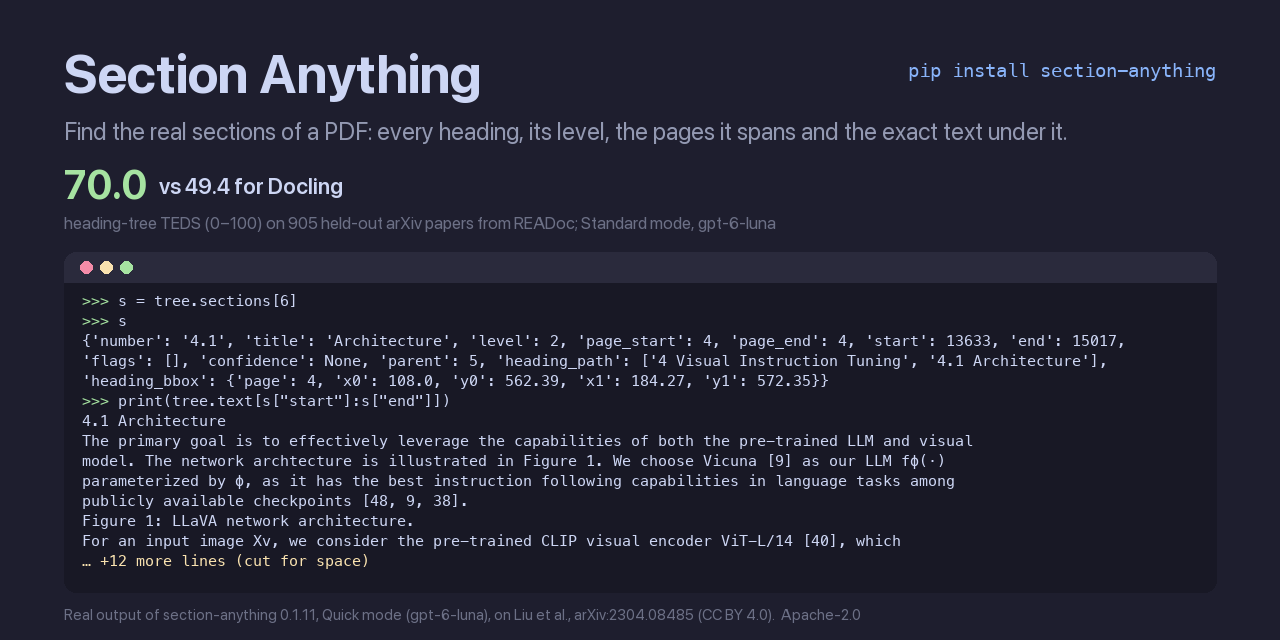
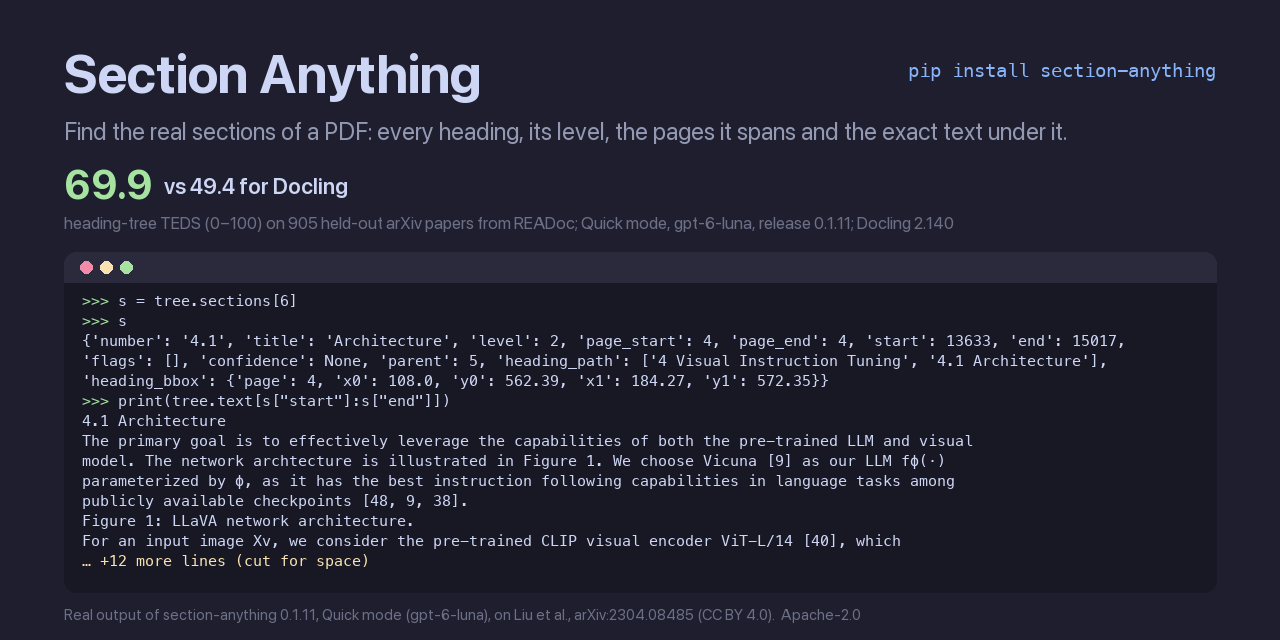
Results measured again on 0.1.11 (13 Nov 2026): README, package README, website data, demo note, agent skill, social preview

Changed region(s): [[0.0312, 0.25, 0.2812, 0.3125], [0.4375, 0.3438, 0.75, 0.375]]

diff --git a/site/data/results.js b/site/data/results.js
@@ -2,7 +2,7 @@
 // Every number below was measured with the scripts in hustles/.tmp/readoc-pilot (to be moved into the
 // public repo as benchmarks/) unless marked "published".
 window.SA_DATA = {
-  updated: "2026-10-28",
+  updated: "2026-11-13",
   repoUrl: "https://github.com/Omniwot/section-anything",
   appUrl: "https://huggingface.co/spaces/Omniwot/section-anything",  // the demo app's address; empty hides the "Try it" buttons
   tryIt: {
@@ -25,7 +25,7 @@ window.SA_DATA = {
       costPer1000Pages: 0.07 },
     { id: "standard", name: "Standard", model: "an LLM (gpt-6-luna by default, as in every READoc table here; gpt-6.1-sol optional)", sends: "the document text",
       how: "The model reads every line, with font hints, and marks where each section starts and ends.",
-      costPer1000Pages: 0.16, costPer1000PagesStrong: 2.9 },
+      costPer1000Pages: 0.12, costPer1000PagesStrong: 2.9 },
     { id: "local", name: "Local", model: "a local model through Ollama", sends: "nothing leaves your machine",
       how: "Quick check run on your own hardware. Slower; quality depends on the model.",
       costPer1000Pages: 0 }
@@ -37,27 +37,27 @@ window.SA_DATA = {
     link: "https://github.com/icip-cas/READoc",
     heldout: {
       title: "arXiv papers not used while developing the method",
-      date: "2026-10-28", docs: 905, subset: "READoc-arXiv",
+      date: "2026-11-13", docs: 905, subset: "READoc-arXiv",
       rows: [
-        { system: "Section Anything Standard (gpt-6-luna)", score: 70.0, ours: true },
-        { system: "Section Anything Quick check (gpt-6-luna)", score: 68.0, ours: true },
-        { system: "Section Anything Free (no model)", score: 60.0, ours: true },
-        { system: "Docling 2.140 (heading hierarchy on)", score: 49.4 }
+        { system: "Section Anything Quick check (gpt-6-luna)", score: 69.9, ours: true },
+        { system: "Section Anything Standard (gpt-6-luna)", score: 68.0, ours: true },
+        { system: "Section Anything Free (no model)", score: 61.7, ours: true },
+        { system: "Docling 2.140 (heading hierarchy on; measured October 2026)", score: 49.4 }
       ],
-      note: "Paired per paper, Standard minus Docling is +20.6 points on these 905 papers (95% CI 19.3 to 21.8); Standard scored higher on 773 papers and Docling on 103 (by more than 0.5 points). Quick check is release 0.1.2 and Free release 0.1.5. Release 0.1.1 found the abstract's heading (journals often set it small, bold or run into the first line): in a pre-registered held-out test it added 2.4 points to Free (95% CI 2.0 to 2.7) and 3.7 to Quick check (95% CI 3.3 to 4.1) on these papers (0.1.0: 54.8 and 63.9). Release 0.1.2 keeps a section number that the PDF extractor split off its title (\"1\" | \"Introduction\"): in a second pre-registered test it added 0.7 to Free (95% CI 0.5 to 1.0) and 0.5 to Quick check (95% CI 0.4 to 0.8; 1.7 on the 291 papers it changes) (0.1.1: 57.2 and 67.4). Release 0.1.5 gives back matter (References, Acknowledgements, Appendix) and appendix sections the level of the numbered sections: in a fourth pre-registered test on these papers it added 2.1 points to Free (95% CI 1.7 to 2.4; 136 papers better, 4 worse) (0.1.4: 57.9), with READMEs unchanged. Standard uses none of these. Free includes the outline check (52.0 before it)."
+      note: "Our rows are release 0.1.11, run end to end from the PDFs on 13 November 2026 (one run); Docling's row was measured in October. Paired per paper, Quick check minus Docling is +20.5 points on these 905 papers (95% CI 19.3 to 21.7); Quick check scored higher on 774 papers and Docling on 79 (by more than 0.5 points). Quick check is 1.9 points ahead of Standard (95% CI 1.2 to 2.6), and Standard is 1.9 lower than its October run (95% CI 1.3 to 2.5); which release caused that is not isolated. Before 0.1.11 this table read Standard 70.0 (October), Quick check 68.0 (release 0.1.2) and Free 60.0 (release 0.1.5). Release 0.1.1 found the abstract's heading (journals often set it small, bold or run into the first line): in a pre-registered held-out test it added 2.4 points to Free (95% CI 2.0 to 2.7) and 3.7 to Quick check (95% CI 3.3 to 4.1) on these papers (0.1.0: 54.8 and 63.9). Release 0.1.2 keeps a section number that the PDF extractor split off its title (\"1\" | \"Introduction\"): in a second pre-registered test it added 0.7 to Free (95% CI 0.5 to 1.0) and 0.5 to Quick check (95% CI 0.4 to 0.8; 1.7 on the 291 papers it changes) (0.1.1: 57.2 and 67.4). Release 0.1.5 gives back matter (References, Acknowledgements, Appendix) and appendix sections the level of the numbered sections: in a fourth pre-registered test on these papers it added 2.1 points to Free (95% CI 1.7 to 2.4; 136 papers better, 4 worse) (0.1.4: 57.9), with READMEs unchanged. Standard uses none of these. Free includes the outline check (52.0 before it)."
     },
     heldoutMinerU: {
       title: "The same held-out papers with MinerU (every tool on the same papers)",
-      date: "2026-10-26", docs: 905, subset: "READoc-arXiv",
+      date: "2026-11-13", docs: 905, subset: "READoc-arXiv",
       rows: [
-        { system: "Section Anything Standard (gpt-6-luna)", score: 70.0, ours: true },
-        { system: "Section Anything Quick check (gpt-6-luna)", score: 68.0, ours: true },
+        { system: "Section Anything Quick check (gpt-6-luna)", score: 69.9, ours: true },
+        { system: "Section Anything Standard (gpt-6-luna)", score: 68.0, ours: true },
         { system: "MinerU cloud + its LLM title levels (gpt-6.1-sol)", score: 64.8 },
         { system: "MinerU cloud + its LLM title levels (gpt-6-luna)", score: 62.7 },
         { system: "MinerU cloud (3.4.4, vlm)", score: 53.9 },
         { system: "Docling 2.140 (heading hierarchy on)", score: 49.4 }
       ],
-      note: "Paired per paper, Standard minus MinerU + LLM (gpt-6.1-sol) is +5.1 points (95% CI 4.0 to 6.2). MinerU's cloud processed all 905 held-out papers. We ran its LLM title-level step through our own relay; with gpt-6.1-sol it returned no parsable levels for 154 of them after three tries and kept MinerU's raw levels (failures in the first 313 papers were not logged; with gpt-6-luna none of the 592 logged papers failed); without those 154 papers the difference is +2.8 points (95% CI 1.6 to 3.9). Quick check (release 0.1.2; 67.4 in 0.1.1, 63.9 in 0.1.0), which sends only candidate lines, is 3.1 points above MinerU + LLM (gpt-6.1-sol) (95% CI 2.1 to 4.1), but level with it without the 154 papers (+1.0, 95% CI −0.03 to 2.0)."
+      note: "Our rows are release 0.1.11 (13 November 2026); the MinerU and Docling rows were measured in October. Paired per paper, Quick check minus MinerU + LLM (gpt-6.1-sol) is +5.1 points (95% CI 4.1 to 6.1) and Standard minus MinerU + LLM is +3.2 (95% CI 2.2 to 4.2). MinerU's cloud processed all 905 held-out papers. We ran its LLM title-level step through our own relay; with gpt-6.1-sol it returned no parsable levels for 154 of them after three tries and kept MinerU's raw levels (failures in the first 313 papers were not logged; with gpt-6-luna none of the 592 logged papers failed); without those 154 papers Quick check, which sends only candidate lines, is 3.0 points above MinerU + LLM (95% CI 1.9 to 4.0) and Standard is about level with it (+1.0, 95% CI 0.0 to 1.9)."
     },
     sample: {
       title: "Every tool on the same READoc sample (200 documents drawn; 198 have headings in the answer key)",
@@ -83,7 +83,7 @@ window.SA_DATA = {
         { system: "Section Anything Free (no model)", arxiv: 59.4, github: 81.3, ours: true },
         { system: "Docling 2.140 (heading hierarchy on)", arxiv: 49.3, github: 75.0 }
       ],
-      note: "All documents with headings in READoc's arXiv and GitHub sets. Free is release 0.1.5 (0.1.4: 57.3 / 81.3; 0.1.1: 56.6 / 81.3; 0.1.0: 54.2 / 81.3; 51.3 / 75.0 before the outline check). Quick check is 0.1.0 (its 0.1.1 and 0.1.2 gains were measured on the 905 held-out papers above). On the 1,124 GitHub READMEs not used during development, Standard and Quick check tie with Docling (Standard +0.3, 95% CI -0.9 to +1.6) and Free scores 6.2 higher (95% CI 5.3 to 7.2). Over all 1,224 READMEs, Standard's heading text is a little closer to the answer key than Docling's (READoc heading edit similarity 77.8 vs 73.9)."
+      note: "All documents with headings in READoc's arXiv and GitHub sets. Free is release 0.1.5 (0.1.4: 57.3 / 81.3; 0.1.1: 56.6 / 81.3; 0.1.0: 54.2 / 81.3; 51.3 / 75.0 before the outline check). Quick check is 0.1.0 (its 0.1.1 and 0.1.2 gains were measured on the 905 held-out papers above). On the 1,124 GitHub READMEs not used during development, with release 0.1.11 (13 November 2026), Standard and Quick check are about level with Docling (each +1.1, 95% CI -0.0 to +2.2) and Free scores 6.2 higher (95% CI 5.2 to 7.1). Over all 1,224 READMEs, Standard's heading text is a little closer to the answer key than Docling's (READoc heading edit similarity 77.8 vs 73.9)."
     },
     published: {
       title: "Published READoc results (older tool versions, from the READoc paper, arXiv 2409.05137)",
@@ -98,8 +98,8 @@ window.SA_DATA = {
     }
   },
   where_others_win: [
-    "On the 1,124 READoc GitHub READMEs not used in development, our quick and standard only tie with Docling (about 75 Heading TEDS). Free with the outline check scores 81.9 vs Docling's 75.5 on the 1,112 of them with bookmarks; Docling reaches 79.7 with the same outline idea, proposed upstream in docling#5002.",
-    "MinerU with its own LLM title levels on gpt-6.1-sol scores 64.8 vs our Standard's 70.0 on the 905 held-out arXiv papers, and is level with it on the 98 arXiv papers of the development sample (69.3 vs 69.5).",
+    "On the 1,124 READoc GitHub READMEs not used in development, our quick and standard are only about level with Docling (76.3 vs 75.2 Heading TEDS; release 0.1.11), five points below our own Free (81.4). In October, Free scored 81.9 vs Docling's 75.5 on the 1,112 of them that had bookmarks, and Docling reached 79.7 with the same outline idea, proposed upstream in docling#5002.",
+    "MinerU with its own LLM title levels on gpt-6.1-sol scores 64.8 on the 905 held-out arXiv papers, about level with our Standard (68.0) once the 154 papers where that step failed are set aside (+1.0, 95% CI 0.0 to 1.9), and was level with Standard on the 98 arXiv papers of the development sample in October (69.3 vs 69.5).",
     "Nougat, an OCR model trained on arXiv, has the highest published Heading TEDS on READoc's arXiv papers (88.5 in the READoc paper, older versions; we have not run it).",
     "Free mode depends on PDF bookmarks: on full READoc arXiv papers without them, Free (20 Oct, before the outline check) scored 41.0 vs Docling's 50.2 on the 178 papers without bookmarks, and 53.6 vs 49.1 on the 825 with them (heading-tree TEDS).",
     "Docling and MinerU also read scanned pages with OCR; Section Anything needs a PDF text layer."

diff --git a/space/app.py b/space/app.py
@@ -61,8 +61,8 @@ are not logged. Don't upload confidential documents: this is a public demo.
 **Limits:** {MAX_PAGES} pages and {MAX_MB} MB per PDF, with a text layer (scanned PDFs need OCR first)."""
 EXAMPLES_NOTE = f"""**Example papers.** Free runs live here. Quick check and Standard (both on gpt-6-luna) are
 saved runs: computed once by us, never on this Space. Three examples, not a benchmark: over 905 held-out
-READoc arXiv papers the [README]({REPO}#results) reports heading-tree TEDS of 70.0 for Standard, 68.0 for
-Quick check and 60.0 for Free."""
+READoc arXiv papers the [README]({REPO}#results) reports heading-tree TEDS of 69.9 for Quick check, 68.0 for
+Standard and 61.7 for Free (release 0.1.11)."""
 NO_MODEL = (f"Quick check and Standard call a model, so this Space runs them only as saved runs on the three "
             f"example papers. For your own PDFs, [install the library]({REPO}#install) and use your own API key.")
 HIDDEN = ("(Text not shown: this part of the PDF came out of this Space's extraction differently from the saved "

diff --git a/docs/assets/make_demo.py b/docs/assets/make_demo.py
@@ -309,10 +309,10 @@ def render(cap: Path) -> None:
     d.text((X, 116), "Find the real sections of a PDF: every heading, its level, the pages it spans and "
            "the exact text under it.", font=sf(24), fill=DIM)
     big = sf(40, "Bold")
-    d.text((X, 160), "70.0", font=big, fill=GREEN)
-    d.text((X + big.getlength("70.0") + 12, 172), "vs 49.4 for Docling", font=sf(22, "Semibold"), fill=FG)
-    d.text((X, 212), "heading-tree TEDS (0–100) on 905 held-out arXiv papers from READoc; Standard mode, "
-           "gpt-6-luna", font=sf(17), fill=FAINT)
+    d.text((X, 160), "69.9", font=big, fill=GREEN)
+    d.text((X + big.getlength("69.9") + 12, 172), "vs 49.4 for Docling", font=sf(22, "Semibold"), fill=FG)
+    d.text((X, 212), "heading-tree TEDS (0–100) on 905 held-out arXiv papers from READoc; Quick mode, "
+           "gpt-6-luna, release 0.1.11; Docling 2.140", font=sf(17), fill=FAINT)
 
     # Terminal panel: scene 2 of the GIF, the same captured lines.
     px0, py0, px1, py1 = X, 252, SW - X, 592

diff --git a/README.md b/README.md
@@ -87,18 +87,23 @@ rules, and optionally a model that reviews or reads the text.
 ## Results
 
 Heading-tree similarity (TEDS, 0–100, higher is better) on [READoc](https://github.com/icip-cas/READoc)
-with READoc's own scoring code, October 2026. Docling and MinerU convert whole documents (layout,
-tables, figures, formulas, OCR); these numbers compare only the heading tree. Papers not used while
-developing the method:
+with READoc's own scoring code. Docling and MinerU convert whole documents (layout, tables, figures,
+formulas, OCR); these numbers compare only the heading tree. Papers not used while developing the
+method, run end to end from the PDFs with release 0.1.11 on 13 November 2026 (one run; `quick` and
+`standard` vary slightly between runs):
 
 | READoc arXiv papers (held out) | Docs | TEDS |
 |---|---|---|
-| Section Anything `standard` (gpt-6-luna) | 905 | **70.0** |
-| Section Anything `quick` (gpt-6-luna) | 905 | 68.0 |
-| Section Anything `free` (no model) | 905 | 60.0 |
-| Docling 2.140 (heading hierarchy on) | 905 | 49.4 |
+| Section Anything `quick` (gpt-6-luna) | 905 | **69.9** |
+| Section Anything `standard` (gpt-6-luna) | 905 | 68.0 |
+| Section Anything `free` (no model) | 905 | 61.7 |
+| Docling 2.140 (heading hierarchy on; measured October 2026) | 905 | 49.4 |
 
-`quick` is release 0.1.2 and `free` release 0.1.5. 0.1.1 found the abstract's heading (journals often set it
+On these papers `quick` is 1.9 points ahead of `standard` (95% CI +1.2 to +2.6), and `standard` is 1.9
+lower than its October run (95% CI −2.5 to −1.3); which release caused that is not isolated.
+
+Before 0.1.11 this table read `standard` 70.0 (October), `quick` 68.0 (release 0.1.2) and `free` 60.0
+(release 0.1.5), on text extracted by earlier releases. 0.1.1 found the abstract's heading (journals often set it
 small, bold or run into the first line): +2.4 to `free` and +3.7 to `quick` in a pre-registered
 held-out test (0.1.0: 54.8 and 63.9). 0.1.2 keeps a section number that the PDF extractor split
 off its title ("1" | "Introduction"): +0.7 to `free` (95% CI +0.5 to +1.0) and +0.5 to `quick`
@@ -109,23 +114,26 @@ numbered sections: +2.1 to `free` (95% CI +1.7 to +2.4; 136 papers better, 4 wor
 pre-registered test on these papers (0.1.4: 57.9); READMEs unchanged.
 `standard` uses none of these. See the [changelog](CHANGELOG.md).
 
-On the same 905 papers with MinerU's cloud (3.4.4, VLM): our `standard` 70.0, our `quick` 68.0,
-MinerU + its own LLM title levels (gpt-6.1-sol) 64.8 (paired difference: `standard` +5.1, 95% CI
-+4.0 to +6.2, or +2.8 without the 154 papers where that step, run by us on gpt-6.1-sol, returned no
-parsable levels and kept MinerU's raw levels; `quick` +3.1, 95% CI +2.1 to +4.1, but level without
-those papers: +1.0, 95% CI −0.03 to +2.0),
+On the same 905 papers with MinerU's cloud (3.4.4, VLM; measured October 2026): our `quick` 69.9, our
+`standard` 68.0, MinerU + its own LLM title levels (gpt-6.1-sol) 64.8 (paired difference: `quick` +5.1,
+95% CI +4.1 to +6.1, or +3.0, 95% CI +1.9 to +4.0, without the 154 papers where that step, run by us on
+gpt-6.1-sol, returned no parsable levels and kept MinerU's raw levels; `standard` +3.2, 95% CI +2.2 to
++4.2, but about level without those papers: +1.0, 95% CI +0.0 to +1.9),
 MinerU alone 53.9, Docling 49.4.
 
-On GitHub READMEs, `free` scores higher than Docling: on 1,112 bookmarked READoc READMEs not used
-in development, 81.9 against 75.5, and Docling reaches 79.7 with the opt-in outline check we
-proposed upstream ([docling#5002](https://github.com/docling-project/docling/issues/5002)), the
-same idea as `free`'s outline check.
+On GitHub READMEs, `free` scores higher than Docling: on the 1,124 READoc READMEs not used in
+development, 81.4 against 75.2 (+6.2, 95% CI +5.2 to +7.1; release 0.1.11, Docling 2.140 from October).
+In October, on the 1,112 of them that had bookmarks, `free` scored 81.9 against 75.5, and Docling reached
+79.7 with the opt-in outline check we proposed upstream
+([docling#5002](https://github.com/docling-project/docling/issues/5002)), the same idea as `free`'s
+outline check.
 On 27 UK government reports never used in development (answer keys from each report's HTML
 version), the outline check improved `free` by +5.7 (95% CI +0.4 to +12.2; 43.1 → 48.8; measured on 0.1.0).
 
-**Where others win:** on the 1,124 held-out READoc READMEs our `quick` and `standard` only tie with
-Docling (about 75). On the 905 held-out papers Docling scored higher than `standard` on 103 papers
-and lower on 773 (by more than 0.5 points). Nougat, an OCR model trained on arXiv, has the highest published READoc arXiv score
+**Where others win:** on the 1,124 held-out READoc READMEs our `quick` and `standard` are only about
+level with Docling (76.3 against 75.2; +1.1, 95% CI −0.0 to +2.2), five points below our own `free`
+there. On the 905 held-out papers Docling scored higher than `quick` on 79 papers and lower on 774 (by
+more than 0.5 points). Nougat, an OCR model trained on arXiv, has the highest published READoc arXiv score
 (88.5 in the READoc paper, older tool versions; we have not run it). Docling and MinerU also read
 scanned pages with OCR; Section Anything needs a text layer. Better headings improved RAG retrieval in our
 [Qasper test](docs/rag-qasper.md) but not answer quality.
@@ -136,7 +144,7 @@ scanned pages with OCR; Section Anything needs a text layer. Better headings imp
 |---|---|---|---|
 | `free` (default) | bookmarks or the printed contents as the outline, then typography and numbering rules; headings a complete-looking outline does not list are dropped | nothing | $0 |
 | `quick` | rules propose candidate heading lines; a small model keeps the real ones and sets levels | candidate lines only | about $0.07 (gpt-6-luna) |
-| `standard` | a model reads every line, with font hints, and marks where sections start and end | the document text | about $0.16 (gpt-6-luna, the default); $2.90 with gpt-6.1-sol |
+| `standard` | a model reads every line, with font hints, and marks where sections start and end | the document text | about $0.12 (gpt-6-luna, the default; measured on 0.1.11); $2.90 with gpt-6.1-sol (measured in October) |
 | `local:<model>` | `quick`, answered by a local Ollama model | nothing leaves the machine | $0 |
 | `auto` | `free`, then `quick` only for documents where Free is unsure of its headings | nothing, or what `quick` sends | $0 for documents Free is sure of; `quick`'s cost for the rest |
 
@@ -155,7 +163,7 @@ documents); a sheet written from unrepresentative samples can lower it. See the
 
 The default model for `quick` and `standard` is gpt-6-luna, the model behind their READoc scores
 above. `standard` can run on gpt-6.1-sol instead (`SECTIONANY_STANDARD_MODEL=gpt-6.1-sol` or
-`model="gpt-6.1-sol"`) at about 18 times the cost. On development documents only (98 READoc papers
+`model="gpt-6.1-sol"`) at about 18 times the cost when both were measured in October. On development documents only (98 READoc papers
 and 100 READMEs, same code) it scored 5.8 points higher on READMEs (95% CI +2.1 to +9.6) and 0.9
 higher on papers (CI -0.3 to +2.1, not significant); this is not confirmed on held-out documents.
 

diff --git a/packages/section-anything/README.md b/packages/section-anything/README.md
@@ -47,7 +47,7 @@ The `anthropic` extra adds Anthropic's Python SDK (Apache-2.0), the `docling` ex
 |---|---|---|---|
 | `free` (default) | PDF bookmarks or the printed table of contents as the outline, then typography and numbering rules; headings a complete-looking outline does not list are dropped | nothing | $0 |
 | `quick` | the rules propose candidate heading lines; a small model keeps the real ones and sets levels | candidate lines and a 70-character peek at the next line | about $0.07 (`gpt-6-luna`) |
-| `standard` | a model reads every line, with font hints, and marks where sections start and end | the document text | about $0.16 (`gpt-6-luna`, the default); $2.90 with `gpt-6.1-sol` |
+| `standard` | a model reads every line, with font hints, and marks where sections start and end | the document text | about $0.12 (`gpt-6-luna`, the default; measured on 0.1.11); $2.90 with `gpt-6.1-sol` (measured in October) |
 | `local:<model>` | `quick`, answered by a local [Ollama](https://ollama.com) model | nothing leaves the machine | $0 |
 | `auto` | `free`, then `quick` only when Free is unsure of its headings | nothing, or what `quick` sends | $0 for documents Free is sure of, `quick`'s cost for the rest |
 
@@ -556,19 +556,26 @@ differently. If you run one, results are welcome in an issue.
 ## Benchmarks (summary)
 
 Heading-tree similarity (TEDS, 0-100, higher is better) with
-[READoc](https://github.com/icip-cas/READoc)'s own scoring code, October 2026. Docling and MinerU
+[READoc](https://github.com/icip-cas/READoc)'s own scoring code. Docling and MinerU
 convert whole documents (layout, tables, figures, formulas, OCR); these numbers compare only the
 heading tree. The full tables, methods and per-document results are in the repository:
 `site/data/results.js` (rendered by the project site in `site/`) and `corpus/results/`.
 
+The table is release 0.1.11, run end to end from the PDFs on 13 November 2026 (one run; `quick` and
+`standard` vary slightly between runs).
+
 | READoc arXiv papers not used during development | Docs | Score |
 |---|---|---|
-| Section Anything `standard` (gpt-6-luna) | 905 | **70.0** |
-| Section Anything `quick` (gpt-6-luna) | 905 | 68.0 |
-| Section Anything `free` | 905 | 60.0 |
-| Docling 2.140 (heading hierarchy on) | 905 | 49.4 |
+| Section Anything `quick` (gpt-6-luna) | 905 | **69.9** |
+| Section Anything `standard` (gpt-6-luna) | 905 | 68.0 |
+| Section Anything `free` | 905 | 61.7 |
+| Docling 2.140 (heading hierarchy on; measured October 2026) | 905 | 49.4 |
 
-`quick` is release 0.1.2 and `free` release 0.1.5. 0.1.1 found the abstract's heading (journals often set it
+On these papers `quick` is 1.9 points ahead of `standard` (95% CI +1.2 to +2.6), and `standard` is 1.9
+lower than its October run (95% CI −2.5 to −1.3); which release caused that is not isolated.
+
+Before 0.1.11 this table read `standard` 70.0 (October), `quick` 68.0 (release 0.1.2) and `free` 60.0
+(release 0.1.5), on text extracted by earlier releases. 0.1.1 found the abstract's heading (journals often set it
 small, bold or run into the first line): +2.4 to `free` and +3.7 to `quick` in a pre-registered
 held-out test (0.1.0: 54.8 and 63.9). 0.1.2 keeps a section number that the PDF extractor split
 off its title ("1" | "Introduction"): +0.7 to `free` (95% CI 0.5 to 1.0) and +0.5 to `quick` (95%
@@ -580,21 +587,24 @@ pre-registered test on these papers (0.1.4: 57.9); READMEs unchanged.
 `standard` uses none of these. See the
 [changelog](https://github.com/Omniwot/section-anything/blob/main/CHANGELOG.md).
 
-On the same 905 papers with MinerU's cloud service (3.4.4, VLM): our `standard` 70.0, our `quick`
-68.0, MinerU + its LLM title levels (gpt-6.1-sol) 64.8 (paired difference: `standard` +5.1, 95% CI
-4.0 to 6.2, or +2.8 without the 154 papers where that step, run by us on gpt-6.1-sol, returned no
-parsable levels and kept MinerU's raw levels; `quick` +3.1, 95% CI 2.1 to 4.1, but level without
-those papers: +1.0, 95% CI −0.03 to 2.0),
+On the same 905 papers with MinerU's cloud service (3.4.4, VLM; measured October 2026): our `quick`
+69.9, our `standard` 68.0, MinerU + its LLM title levels (gpt-6.1-sol) 64.8 (paired difference: `quick`
++5.1, 95% CI 4.1 to 6.1, or +3.0, 95% CI 1.9 to 4.0, without the 154 papers where that step, run by us
+on gpt-6.1-sol, returned no parsable levels and kept MinerU's raw levels; `standard` +3.2, 95% CI 2.2 to
+4.2, but about level without those papers: +1.0, 95% CI 0.0 to 1.9),
 MinerU cloud alone 53.9, Docling 49.4.
 
-On 1,112 bookmarked READoc GitHub READMEs not used in development, `free` scores 81.9 against
-Docling's 75.5; Docling reaches 79.7 with the opt-in outline check we proposed upstream
+On the 1,124 READoc GitHub READMEs not used in development, `free` scores 81.4 against Docling's 75.2
+(+6.2, 95% CI 5.2 to 7.1; release 0.1.11, Docling 2.140 from October). In October, on the 1,112 of them
+that had bookmarks, `free` scored 81.9 against 75.5, and Docling reached 79.7 with the opt-in outline
+check we proposed upstream
 ([docling#5002](https://github.com/docling-project/docling/issues/5002)), the same idea as
 `free`'s outline check. On 27 UK government reports never used in development (answer keys from each report's HTML version), the outline check improved `free` by +5.7 (95% CI +0.4 to +12.2; 43.1 → 48.8; measured on 0.1.0).
 
-Where others win: on the 1,124 held-out READoc READMEs our `quick` and `standard` only tie with
-Docling (about 75); on the 905 held-out papers Docling scored higher than `standard` on 103 papers
-and lower on 773 (by more than 0.5 points); Nougat, an OCR model trained on arXiv, has the highest
+Where others win: on the 1,124 held-out READoc READMEs our `quick` and `standard` are only about level
+with Docling (76.3 against 75.2; +1.1, 95% CI −0.0 to 2.2), five points below our own `free` there;
+on the 905 held-out papers Docling scored higher than `quick` on 79 papers and lower on 774 (by more
+than 0.5 points); Nougat, an OCR model trained on arXiv, has the highest
 published READoc arXiv score (88.5 in the READoc paper, older tool versions; we have not run it).
 Docling and MinerU also read scanned pages with OCR; Section Anything needs a text layer.
 

diff --git a/skills/section-anything/SKILL.md b/skills/section-anything/SKILL.md
@@ -55,10 +55,10 @@ very few sections, every heading at one level, figure captions as sections. Then
 
 - `quick` (a small model reviews only the candidate heading lines) or `standard` (a model reads the
   whole text) usually do better on papers. On 905 held-out arXiv papers (READoc heading-tree TEDS,
-  0-100): free 60.0, quick 68.0, standard 70.0. On 1,124 held-out GitHub READMEs free scores
-  higher (81.4 against about 75 for quick and standard), so keep free for README-like documents.
+  0-100, release 0.1.11): quick 69.9, standard 68.0, free 61.7. On 1,124 held-out GitHub READMEs free
+  scores higher (81.4 against about 76 for quick and standard), so keep free for README-like documents.
 - They need an API key in the environment (`OPENAI_API_KEY`, or `ANTHROPIC_API_KEY` with a Claude
-  model) and cost about $0.07 (quick) or $0.16 (standard) per 1,000 pages with the default model.
+  model) and cost about $0.07 (quick) or $0.12 (standard) per 1,000 pages with the default model.
   Every run is estimated first and capped per document (default $0.50); over the cap it falls back
   to a cheaper mode and says so in `downgraded`.
 - Ask the user before running a paid mode on their documents: it sends text to the model provider.

diff --git a/CHANGELOG.md b/CHANGELOG.md
@@ -3,6 +3,19 @@
 Releases of the `section-anything` library on [PyPI](https://pypi.org/project/section-anything/).
 Scores are READoc heading-tree TEDS (0-100) with READoc's own scoring code.
 
+## Unreleased
+
+### Documentation
+
+- **READoc held-out scores measured again on 0.1.11** (13 November 2026, end to end from the PDFs with the
+  published package, gpt-6-luna, one run, no failed document; research finding F106): 905 arXiv papers
+  `quick` 69.9, `standard` 68.0, `free` 61.7; 1,124 READMEs `free` 81.4, `quick` 76.3, `standard` 76.3.
+  On the papers `standard` is 1.9 lower than its October run (95% CI −2.5 to −1.3; which release caused it
+  is not isolated) and `quick` is 1.9 ahead of `standard` (95% CI +1.2 to +2.6). Measured cost per 1,000
+  pages: `quick` about $0.07, `standard` about $0.12. The README, the package README, the website, the demo
+  Space and the agent skill now give these numbers; Docling's and MinerU's rows are still their October
+  measurements.
+
 ## 0.1.11 (2026-11-13)
 
 ### Changed

diff --git a/space/README.md b/space/README.md
@@ -60,7 +60,7 @@ public demo.
   `quick` with an Ollama model on your machine. See the
   [README](https://github.com/Omniwot/section-anything#readme).
 - The three examples are examples, not a benchmark. Over 905 held-out READoc arXiv papers the
-  README reports heading-tree TEDS of 70.0 for `standard`, 68.0 for `quick` and 60.0 for `free`
+  README reports heading-tree TEDS of 69.9 for `quick`, 68.0 for `standard` and 61.7 for `free`
   ([results](https://github.com/Omniwot/section-anything#results)).
 - A saved run's section text is cut from this Space's own extraction of the paper, and only where
   the cut matches the saved run (a hash of the section's text or of its lines, and the heading
